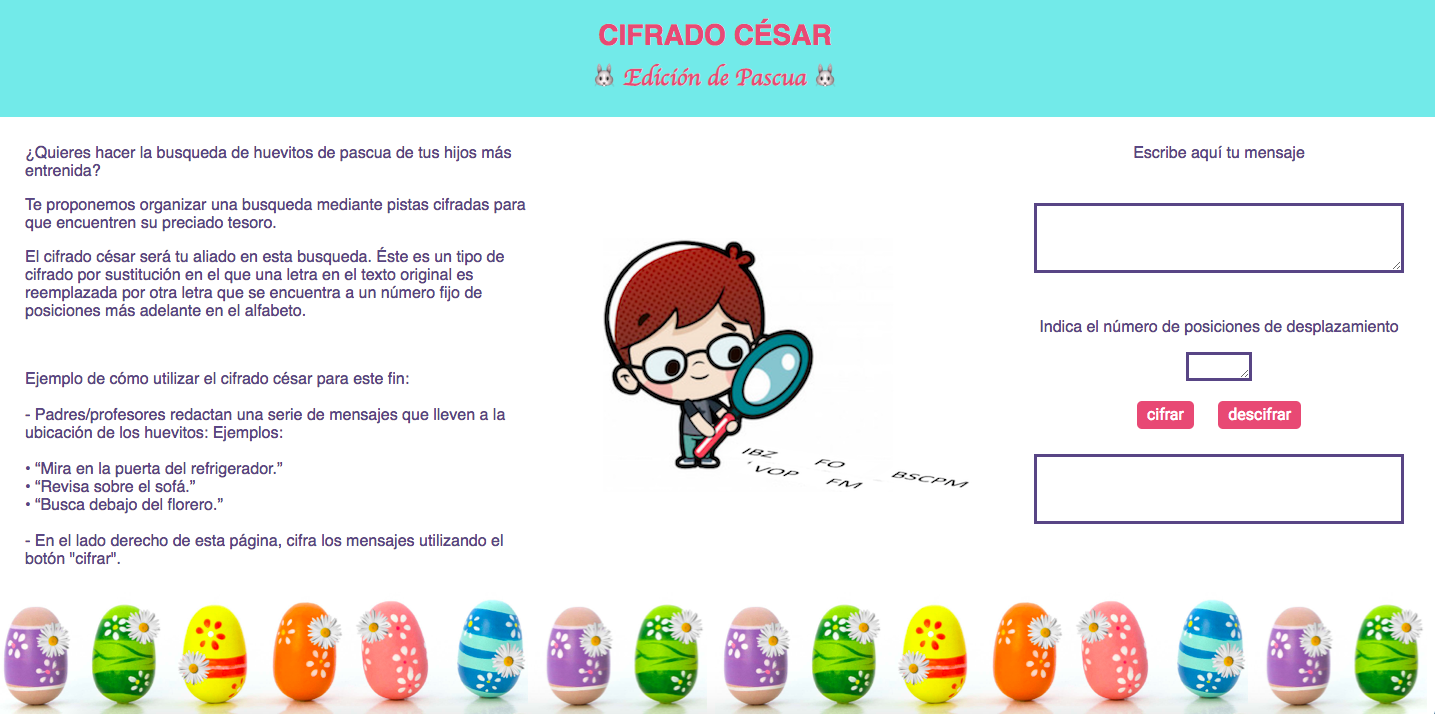
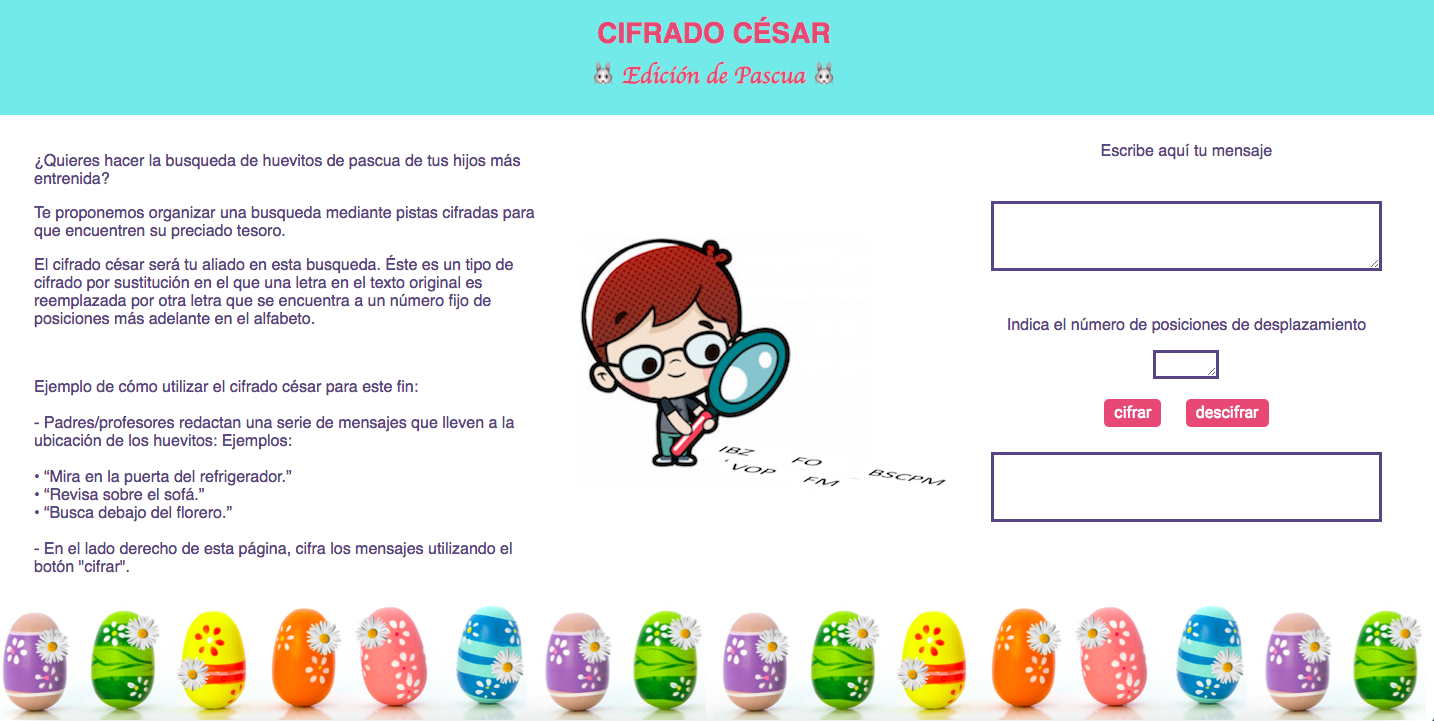
correcion p de html, arreglo padding y proporciones en css y plt cambio pantallazo README

diff --git a/test/cipher.spec.js b/test/cipher.spec.js
@@ -66,38 +66,3 @@ describe('cipher', () => {
   });
 
 });
-
-
-
-/*  describe('cipher', () => {
-
-  it('debería ser un objeto', () => {
-    assert.equal(typeof cipher, 'object');
-  });
-
-  describe('cipher.encode', () => {
-
-    it('debería ser una función', () => {
-      assert.equal(typeof cipher.encode, 'function');
-    });
-
-    it('debería retornar "HIJKLMNOPQRSTUVWXYZABCDEFG" para "ABCDEFGHIJKLMNOPQRSTUVWXYZ" con offest 33', () => {
-      assert.equal(cipher.encode(33, "ABCDEFGHIJKLMNOPQRSTUVWXYZ"), "HIJKLMNOPQRSTUVWXYZABCDEFG");
-    });
-
-  })
-
-  describe('cipher.decode', () => {
-
-    it('debería ser una función', () => {
-      assert.equal(typeof cipher.decode, 'function');
-    });
-
-    it('debería retornar "ABCDEFGHIJKLMNOPQRSTUVWXYZ" para "HIJKLMNOPQRSTUVWXYZABCDEFG" con offest 33', () => {
-      assert.equal(cipher.encode(33, "HIJKLMNOPQRSTUVWXYZABCDEFG"), "ABCDEFGHIJKLMNOPQRSTUVWXYZ");
-    });
-
-
-  })
-})
-*/

diff --git a/src/index.html b/src/index.html
@@ -35,7 +35,8 @@
                         - Luego escríbelos o imprímelos. Indica en el mensaje el número de desplazamiento. <br><br> 
                         - Colócalos en los lugares definidos para la búsqueda. También ubica los huevitos. <br><br>
                         - Explicar a los niños como funciona el juego y el cifrado/descifrado. <br><br>
-                        - ¡Que comience la búsqueda! Los niños pueden descifrar los mensajes utilizando el botón "descifrar". 
+                        - ¡Que comience la búsqueda! Los niños pueden descifrar los mensajes utilizando el botón "descifrar".
+                    </p>    
                 </div>
 
                 <div class="box two">

diff --git a/src/style.css b/src/style.css
@@ -81,16 +81,21 @@ h2 {
     width: 40%;
     text-align: left;
     overflow: scroll;
-    padding: 10px 30px;
+    padding-top: 20px;
+    padding-bottom: 10px;
+    padding-right: 20px;
+    padding-left: 40px;
 }
   
 .two {
-    width: 30%;
+    width: 27%;
     padding-top: 120px;
+    padding-right: 20px;
 }    
 
 .three {
-    width: 30%;
+    width: 33%;
+    padding-right: 30px;
 }
 
 .boxes:after {
